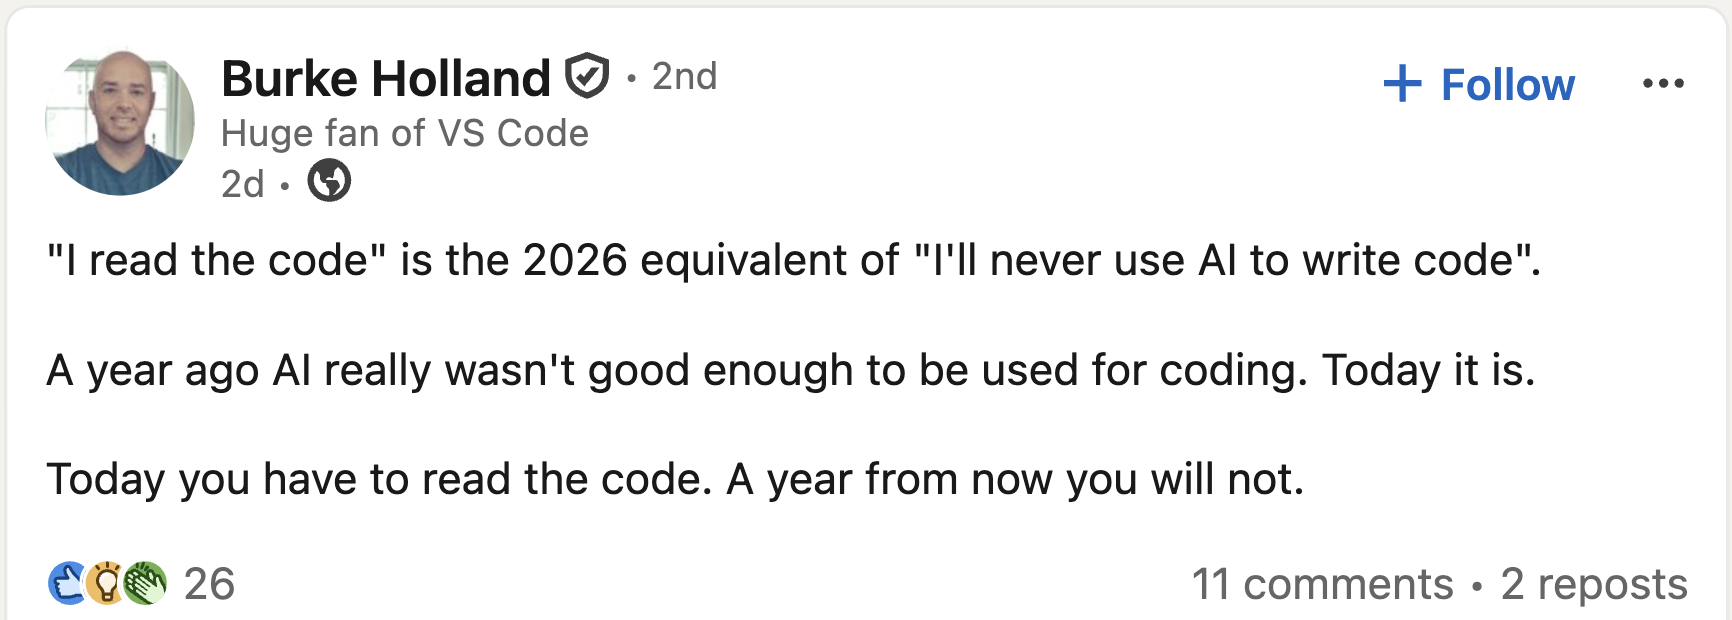
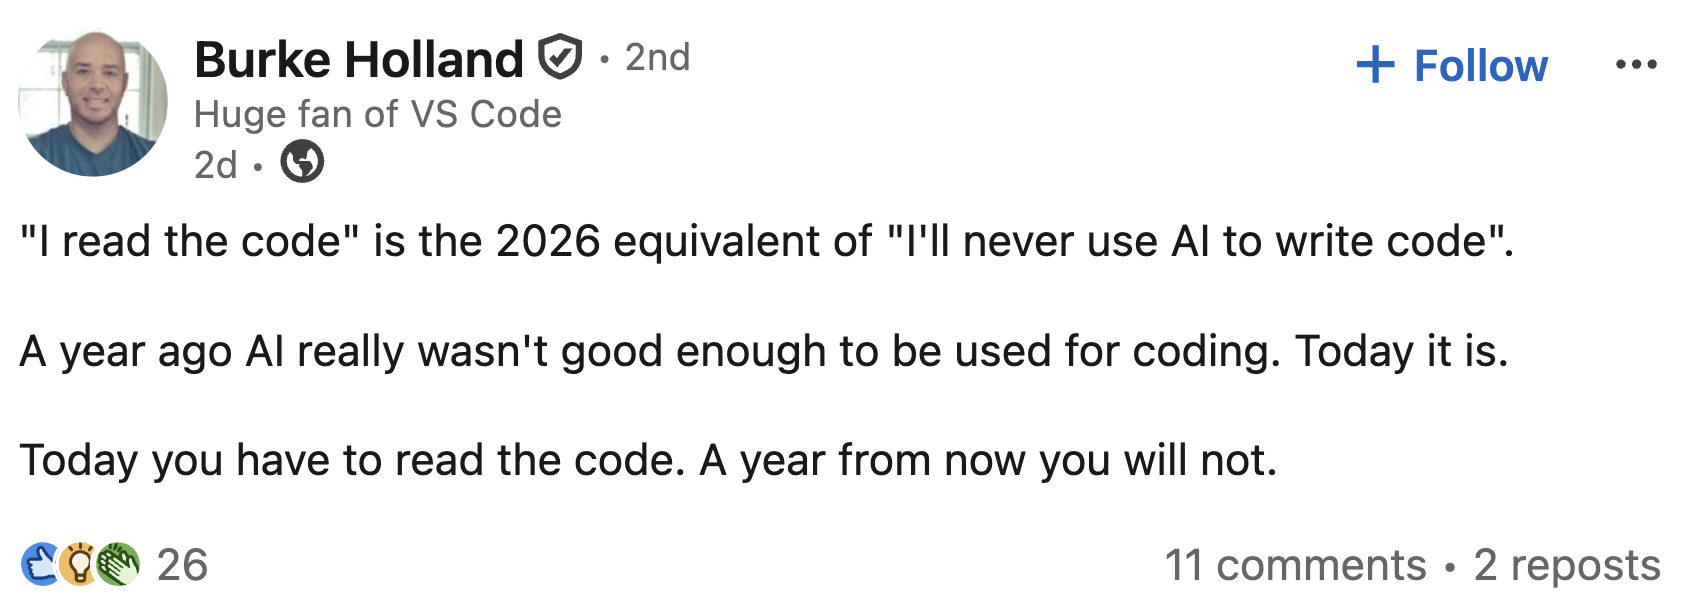
Add links

diff --git a/src/style/global.css b/src/style/global.css
@@ -239,6 +239,9 @@ img {
   max-width: 100%;
   height: auto;
 }
+article img {
+  border: 1px solid var(--quote-border);
+}
 code {
   padding: 2px 5px;
   background-color: var(--code-bg);

diff --git a/posts/reading-code-considered-helpful.md b/posts/reading-code-considered-helpful.md
@@ -106,7 +106,7 @@ He doesn't go faster than he needs to. He streamlines the work that needs doing 
 
 From the other side, Cousin Bill the Patriarch of Codified [Cleanliness](https://www.linkedin.com/pulse/clean-code-critics-do-get-point-thank-you-ray-myers-hin6c/) (not his real name) recently caused another huge stir. **He stopped reading the code!** His story was also an I-Statement, not explicity recommending other people do the same, just sharing his current habits. Cousin Bill also outlined an elaborate harness of automated metrics and quality checks he constructed to avoid making a mess. Cool.
 
-These are both experienced people and **their needs are completely different**. Hashimoto is doing systems programming. He's building Ghostty, a cross-platform GPU-accelerated terminal emulator with millions of users.
+These are both experienced people and **their needs are completely different**. Hashimoto is doing systems programming. He's building [Ghostty](https://github.com/ghostty-org/ghostty), a cross-platform GPU-accelerated terminal emulator with millions of users.
 
 Meanwhile, Cousin Bill appears to be solo-building a Clojure remake of Atari Missile Command with no significant user base. That is a very low-stakes environment to experiment with these more hands-off approaches. Another thing that makes his project unusual is Bill's carefully refined quality safety net. That is often discussed as a [best practice](https://beyond.minimumcd.org/docs/agentic-cd/) for agentic engineering, but relatively few teams [actually](https://codescene.com/customers/loveholidays) [do it](https://ai-coding-patterns.dev/patterns/habit-hooks/) or even understand the principles to apply if they did.
 
@@ -166,7 +166,7 @@ Liz Fong-Jones (ex-Google, Technical Fellow at Honeycomb), echoes our consensus 
 
 The DevOps/SRE pioneers like Fong-Jones and others we'll mention are well aware of what we call the [Ironies of Automation](https://ferd.ca/notes/paper-ironies-of-automation.html). The term was coined in a landmark 1983 [paper](https://ckrybus.com/static/papers/Bainbridge_1983_Automatica.pdf) by cognitive psychologist Lisanne Bainbridge. The paper is famous for being [shockingly](https://www.usenix.org/conference/srecon19asia/presentation/lund-comedy) [evergreen](https://carlhendrick.substack.com/p/ai-brain-fry-workslop-and-the-ironies) as new generations of automators rediscover it and learn to compensate. That's because the observations are ultimately about people, not about specific machines.
 
-Bainbridge said this in 2021 when [revisting](https://www.complexcognition.co.uk/2021/06/ironies-of-automation.html) the work four decades later:
+Bainbridge [revisted](https://www.complexcognition.co.uk/2021/06/ironies-of-automation.html) the work four decades later saying this:
 
 > This was unusual among my papers.  Most of the 'big' papers took months of total concentration to write (the marvellous long vacation) - first coming up with relevant points, then mulling over the issues and helping them to emerge into a coherent framework, then translating that into a linear form which could be expressed in sentences.
 >
@@ -271,7 +271,7 @@ Even if I believed either of those things, the conditions on the ground won't su
 
 [Anthropic](https://snowan.gitbook.io/study-notes/ai-blogs/dario-amodei-end-of-exponential-dwarkesh-2026#key-themes) and [OpenAI](https://openai.com/index/how-enterprises-put-ai-to-work/) have sold ~~a Layoff Machine~~ labor automation. They have sold that it must center around their single unique offering, the frontier language model. They must narcissistically defend that component as the solution to all problems, while insisting no one else be allowed to run one.
 
-They then hand those constraints down to our department to ~~do their homework for them~~ work out the details. Design a system that's **fully agentic**. The stated goal is whatever we'll believe at the moment. ~~Labor automation~~ "Augmentation not replacement". We'll still need you because you have "taste". Definitely not a layoff machine. Be sure to document all your SKILLS. The problem is, these are **bad constraints** even if the premise were honest.
+They then hand those constraints down to our department to ~~do their homework for them~~ work out the details. Design a system that's **fully agentic**. The stated goal is whatever we'll believe at the moment. ~~Labor automation~~ "Augmentation not replacement". We'll still need you because you have "taste". Definitely not a layoff machine. Be sure to document all your SKILLS. The problem is, these are **bad constraints** even if the premise were honest. This seems very disorganized. I'll add some links about organizing at the end.
 
 I would be happy to discuss more technically plausible ways of automating me out of a job. They just wouldn't be conveniently centered around the model lab's only moat. So tell me, am I the one trying to justify my existence or are they?
 
@@ -490,10 +490,19 @@ In fact, I find that most arguments we've heard for the last 3 years that declar
 
 It is, isn't it :)
 
----
-
 ![Someone does not read the code, we move on](/images/posts/reading-code/i-dont-read-thumbs-up.jpg)
 
 Thank you for reading. We cover more riddles of modern software in my podcast, [The Coding Agency](https://www.thecodingagency.org/).
+
+Addendum:
+
+* [Forming a union at a non-union workplace](https://www.worker.gov/form-a-union/)
+* [OpenAI is a threat to labor, but its employees staged one of the most successful collective actions in tech](https://www.wbur.org/cognoscenti/2023/12/06/artificial-intelligence-tech-workers-collective-action-sam-altman-ethan-marcotte)
+* [How AI may drive union-resistant tech workers to the bargaining table](https://www.theguardian.com/technology/2026/jul/21/ai-tech-workers-unionize)
+* [Meet the Google engineer getting its workers ready to strike](https://www.fastcompany.com/90275462/meet-the-google-engineer-getting-its-workers-ready-to-strike)
+* [ACM code of ethics](https://www.acm.org/code-of-ethics)
+* [Software as a profession](https://jolt.law.harvard.edu/assets/articlePDFs/v33/33HarvJLTech557.pdf)
+
+*Dark Factory Considered Harmful.*
 
 ---
